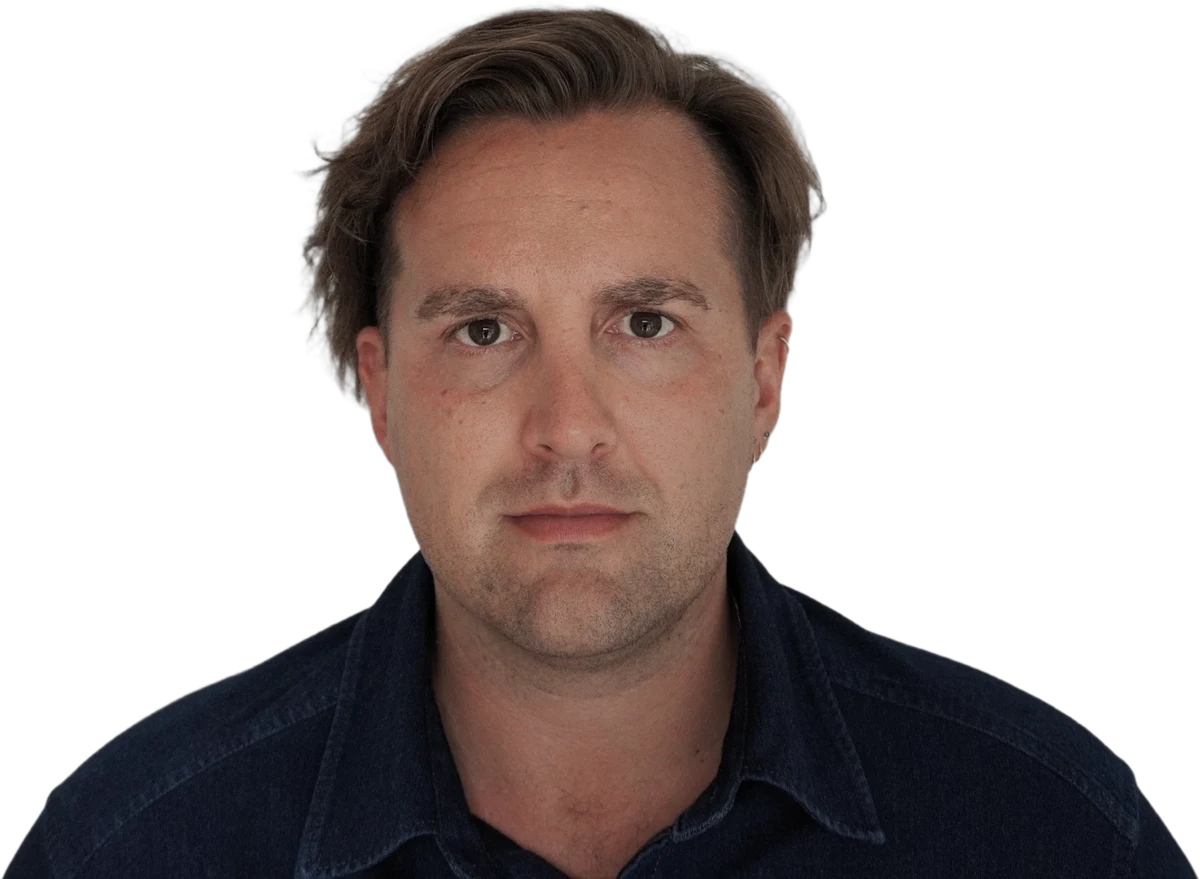
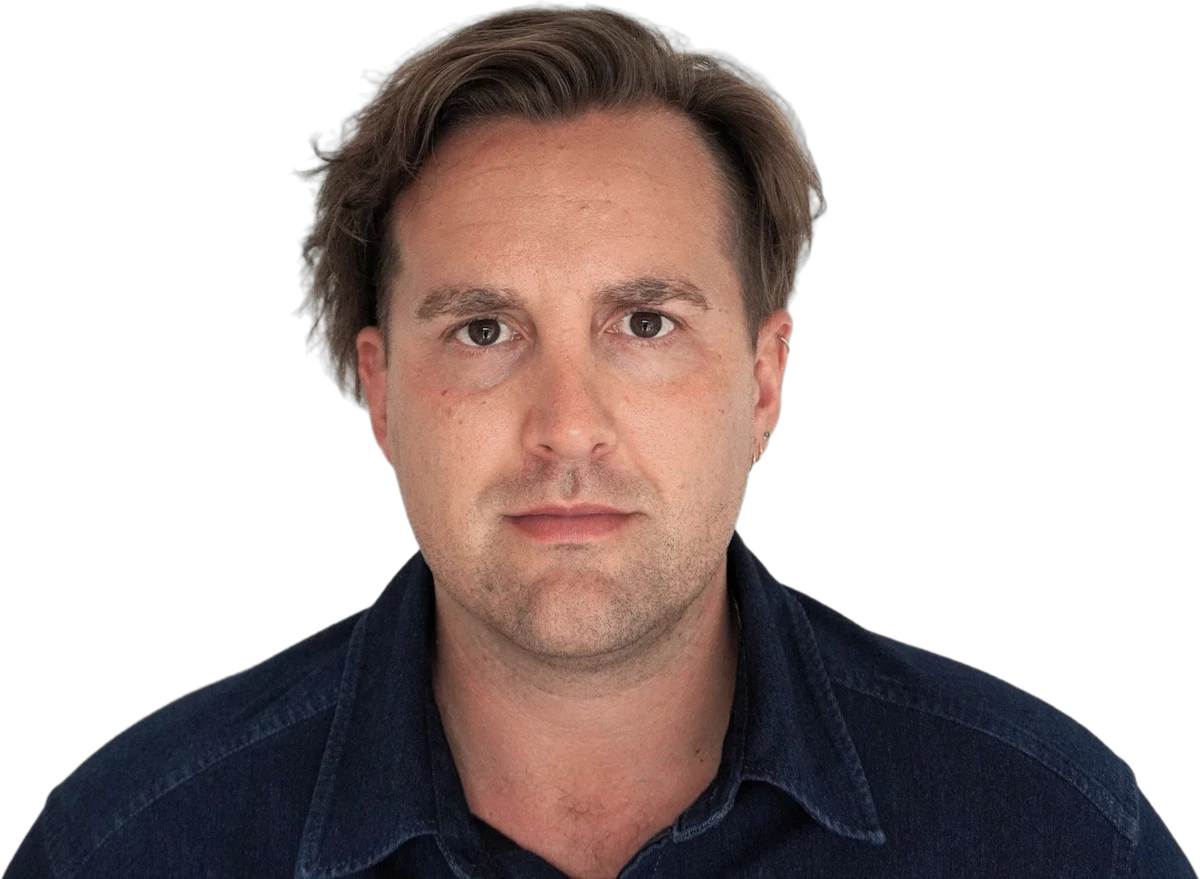
Revert hero relight (too dark) + lower the wash off Chris's face
The directional dodge/burn relight crushed Chris too dark — reverted to the
cleanly-lit cutout. Also moved the warm wash's centre down (34% -> 56%) so
it sits behind his torso rather than centring on his face.

diff --git a/src/routes/(site)/+page.svelte b/src/routes/(site)/+page.svelte
@@ -31,7 +31,7 @@
        sits bottom-right in flow). -->
   <div
     class="pointer-events-none absolute inset-0 z-0 hidden md:block"
-    style="background: radial-gradient(120% 135% at 82% 34%, color-mix(in srgb, #4a3826 30%, transparent) 0%, color-mix(in srgb, #4a3826 12%, transparent) 45%, transparent 82%);"
+    style="background: radial-gradient(120% 135% at 82% 56%, color-mix(in srgb, #4a3826 30%, transparent) 0%, color-mix(in srgb, #4a3826 12%, transparent) 45%, transparent 82%);"
     aria-hidden="true"
   ></div>
 